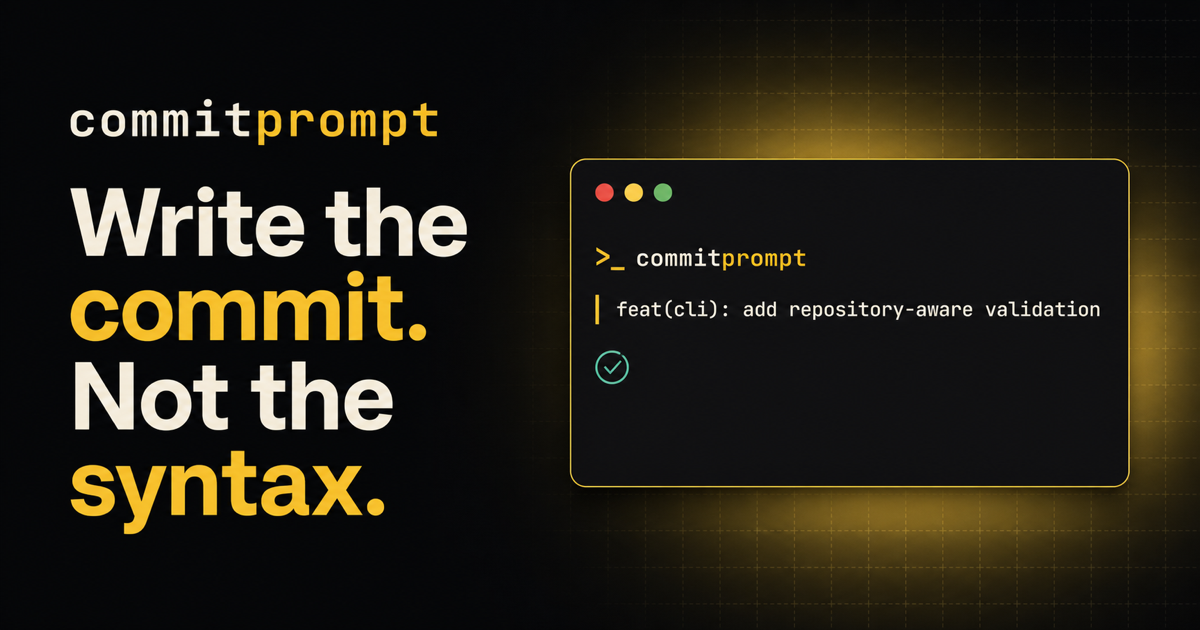
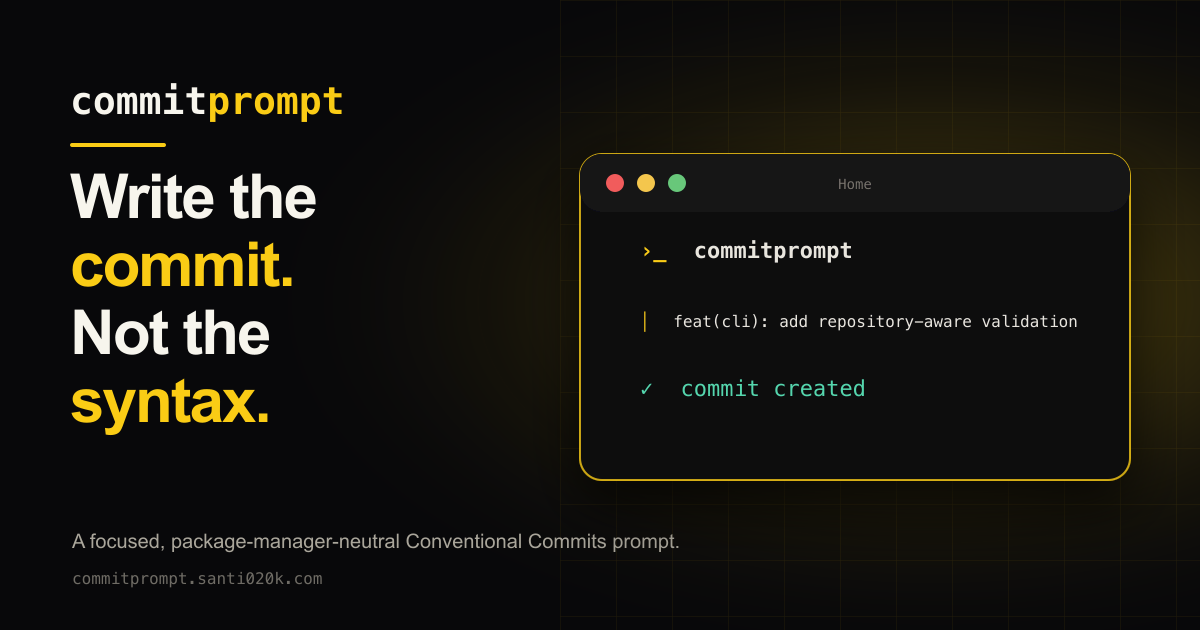
Refresh docs branding and social metadata

diff --git a/apps/docs/src/styles/global.css b/apps/docs/src/styles/global.css
@@ -79,11 +79,24 @@ code {
 }
 
 .wordmark {
+  display: inline-flex;
+  align-items: center;
+  gap: 0.65rem;
   font-family: "SFMono-Regular", Consolas, monospace;
   font-size: 1rem;
   font-weight: 750;
   letter-spacing: -0.04em;
   text-decoration: none;
+}
+
+.wordmark img {
+  display: block;
+  width: 1.875rem;
+  height: 1.875rem;
+}
+
+.wordmark > span > span {
+  color: hsl(var(--brand));
 }
 
 .hero {

diff --git a/apps/docs/eslint.config.js b/apps/docs/eslint.config.js
@@ -31,5 +31,10 @@ export default await defineConfig(
     rules: {
       '@typescript-eslint/triple-slash-reference': 'off'
     }
+  }, {
+    files: ['scripts/**/*.{js,mjs}'],
+    rules: {
+      'no-console': 'off'
+    }
   }
 )

diff --git a/README.md b/README.md
@@ -1,3 +1,7 @@
+<p align="center">
+  <img src="apps/docs/public/logo.svg" alt="Commitprompt" width="440" />
+</p>
+
 # Commitprompt
 
 Write the commit. Not the syntax.
